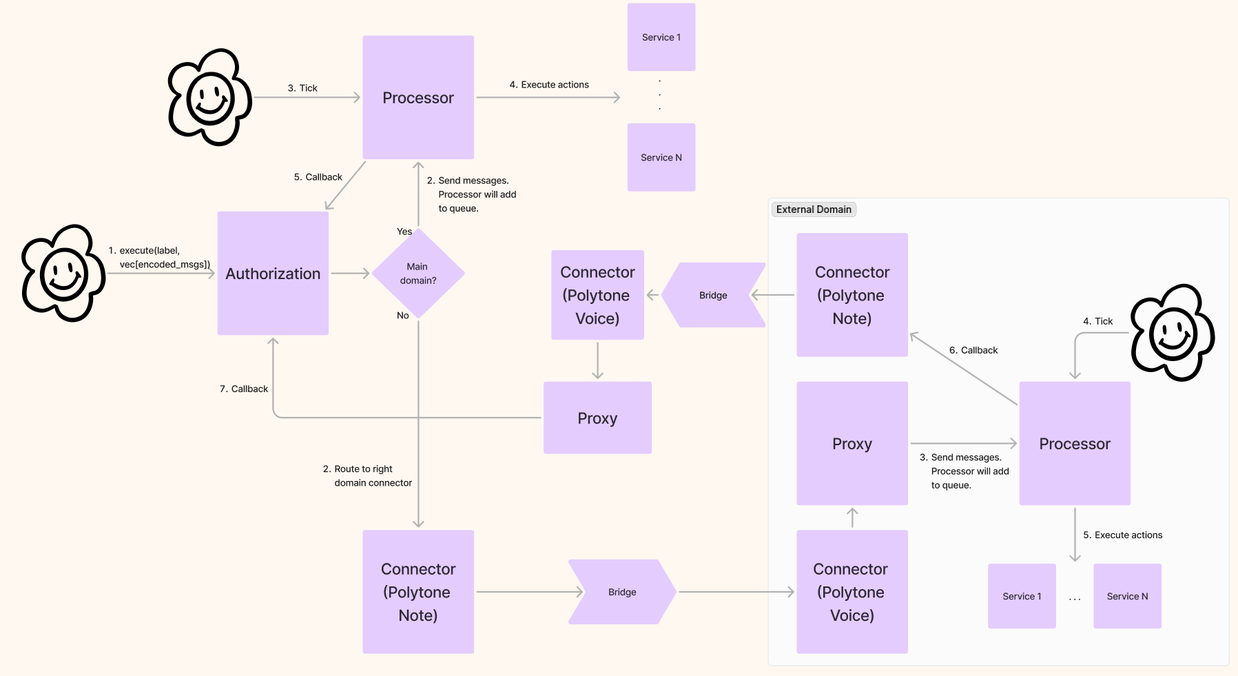
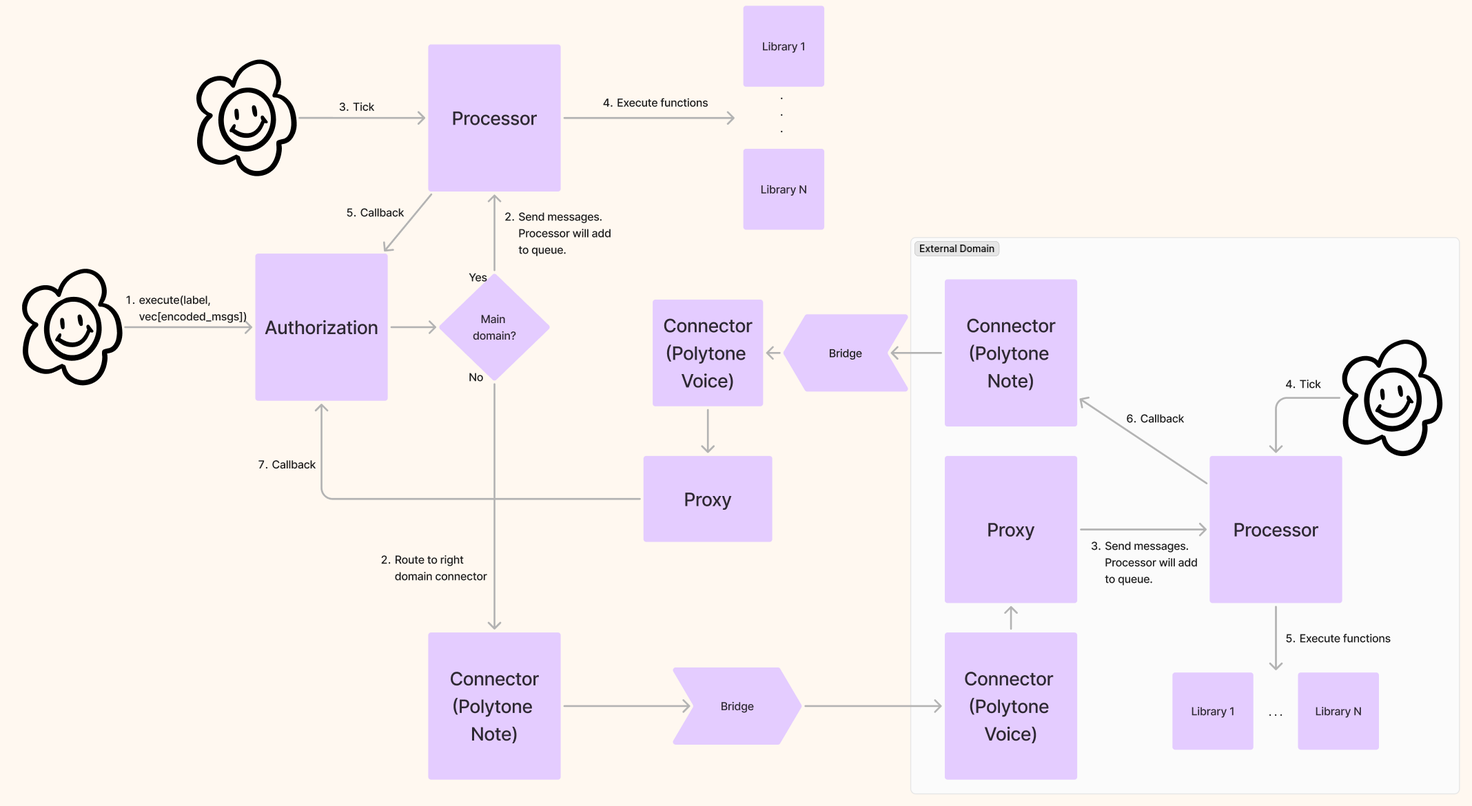
new docs

diff --git a/docs/src/authorizations_processors/authorization_owner_actions.md b/docs/src/authorizations_processors/authorization_owner_actions.md
@@ -1,28 +1,28 @@
-# Owner Actions
+# Owner Functions
 
-- `create_authorizations(vec[Authorization])`: provides an authorization list which is the core information of the authorization contract, it will include all the possible set of actions that can be executed. It will contain the following information:
+- `create_authorizations(vec[Authorization])`: provides an authorization list which is the core information of the authorization contract, it will include all the possible set of functions that can be executed. It will contain the following information:
 
   - Label: unique name of the authorization. This label will be used to identify the authorization and will be used as subdenom of the tokenfactory token in case it is permissioned. Due to tokenfactory module restrictions, the max length of this field is 44 characters.
     Example: If the label is `withdraw` and only address `neutron123` is allowed to execute this authorization, we will create the token `factory/<contract_addr>/withdraw` and mint one to that address. If `withdraw` was permissionless, there is no need for any token, so it's not created.
 
-  - Mode: can either be `Permissioned` or `Permissionless`. If `Permissionless` is chosen, any address can execute this action list. In case of `Permissioned`, we will also say what type of permissioned type we want (with `CallLimit` or without), a list of addresses will be provided for both cases. In case there is a `CallLimit` we will mint a certain amount of tokens for each address that is passed, in case there isn’t we will only mint one token and that token will be used all the time.
+  - Mode: can either be `Permissioned` or `Permissionless`. If `Permissionless` is chosen, any address can execute this function list. In case of `Permissioned`, we will also say what type of permissioned type we want (with `CallLimit` or without), a list of addresses will be provided for both cases. In case there is a `CallLimit` we will mint a certain amount of tokens for each address that is passed, in case there isn’t we will only mint one token and that token will be used all the time.
 
   - NotBefore: from what time the authorization can be executed. We can specify a block height or a timestamp.
 
   - Expiration: until when (what block or timestamp) this authorization is valid.
 
-  - MaxConcurrentExecutions (default 1): to avoid DDoS attacks and to clog the execution queues, we will allow certain authorizations to be present a maximum amount of times (default 1 unless overwritten) in the execution queue.
+  - MaxConcurrentExecutions (default 1): to avoid DDoS attacks and to clog the execution queues, we will allow certain authorizations subroutines to be present a maximum amount of times (default 1 unless overwritten) in the execution queue.
 
-  - ActionsConfig: set of actions in a specific order to be executed. This config can be of two types: `Atomic` or `NonAtomic`. For the `Atomic` config, we will provide an array of `Atomic` actions and an optional `RetryLogic` for the entire bundle. For the `NonAtomic` config we will provide simply an array of `NonAtomic` actions.
+  - Subroutine: set of functions in a specific order to be executed. Subroutines can be of two types: `Atomic` or `NonAtomic`. For the `Atomic` subroutines, we will provide an array of `Atomic` functions and an optional `RetryLogic` for the entire subroutine. For the `NonAtomic` subroutines we will just provide an array of `NonAtomic` functions.
 
-    - `AtomicAction`: each Atomic action has the following parameters:
+    - `AtomicFunction`: each Atomic function has the following parameters:
 
-      - Domain of execution (must be the same for all actions in v1).
+      - Domain of execution (must be the same for all functions in v1).
 
-      - MessageDetails: type (e.g. CosmWasmExecuteMsg) and message (name of the message in the ExecuteMsg json that can be executed with, if applied, three list of parameters: one for `MustBeIncluded`, one for `CannotBeIncluded` and one for `MustBeValue`. (This gives more control over the authorizations. Example: we want one authorization to provide the message with parameters (admin action for that service) but another authorization for the message without any Parameters (user action for that service).
+      - MessageDetails: type (e.g. CosmWasmExecuteMsg) and message (name of the message in the ExecuteMsg json that can be executed with, if applied, three list of parameters: one for `MustBeIncluded`, one for `CannotBeIncluded` and one for `MustBeValue`. (This gives more control over the authorizations. Example: we want one authorization to provide the message with parameters (admin function for that service) but another authorization for the message without any Parameters (user function for that service).
       - Contract address that will execute it.
 
-    - `NonAtomicAction`: each NonAtomic action has the following parameters:
+    - `NonAtomicFunction`: each NonAtomic function has the following parameters:
 
       - Domain of execution
 
@@ -32,9 +32,9 @@
 
       - RetryLogic (optional, self-explanatory).
 
-      - CallbackConfirmation (optional): This defines if a NonAtomicAction is completed after receiving a callback (Binary) from a specific address instead of when it executes correctly. This is used in case of the correct message execution not being enough to consider the message completed, so it will define what callback we should receive from a specific address to flag that message as completed. For this, the processor will append an `execution_id` to the message which will be also passed in the callback by the service to identify what action this callback is for.
+      - CallbackConfirmation (optional): This defines if a `NonAtomicFunction` is completed after receiving a callback (Binary) from a specific address instead of after a correct execution. This is used in case of the correct message execution not being enough to consider the message completed, so it will define what callback we should receive from a specific address to flag that message as completed. For this, the processor will append an `execution_id` to the message which will be also passed in the callback by the service to identify what function this callback is for.
 
-  - Priority (default Med): priority of a set of actions can be set to High. If this is the case, they will go into a preferential execution queue. Messages in the `High` priority queue will be taken over messages in the `Med` priority queue.
+  - Priority (default Med): priority of a set of functions can be set to High. If this is the case, they will go into a preferential execution queue. Messages in the `High` priority queue will be taken over messages in the `Med` priority queue.
     All authorizations will have an initial state of `Enabled` .
 
   Here is an example of an Authorization table after its creation:
@@ -49,7 +49,7 @@
 
 - `enable_authorization(label)`: puts an Authorization to state `Enabled` so that they can be run again.
 
-- `mint_authorization(label, vec[(addresses, Optional: amounts)])`: if the authorization is `Permissioned` with `CallLimit : true`, this action will mint the corresponding token amounts of that authorization to the addresses provided. If `CallLimit: false` it will mint 1 token to the new addresses provided.
+- `mint_authorization(label, vec[(addresses, Optional: amounts)])`: if the authorization is `Permissioned` with `CallLimit: true`, this function will mint the corresponding token amounts of that authorization to the addresses provided. If `CallLimit: false` it will mint 1 token to the new addresses provided.
 
 - `pause_processor(domain)`: pause the processor of the domain.
 

diff --git a/docs/src/authorizations_processors/processor.md b/docs/src/authorizations_processors/processor.md
@@ -1,10 +1,10 @@
 # Processor
 
-The `Processor` will be a contract on each domain of our workflow. It handles the execution queues which contain `Message`. The `Processor` can be `ticked` permissionlessly, which will execute the next `Message Batch` in the queue if this one is executable or rotate it to the back of the queue if it isn't executable yet. The processor will also handle the `Retry` logic for each batch (if the batch is atomic) or action (if the batch is non atomic). After a `Message Batch` has been executed successfully or it reached the maximum amount of retries, it will be removed from the execution queue and the `Processor` will send a callback with the execution information to the `Authorization` contract.
+The `Processor` will be a contract on each domain of our workflow. It handles the execution queues which contain `Message Batches`. The `Processor` can be `ticked` permissionlessly, which will execute the next `Message Batch` in the queue if this one is executable or rotate it to the back of the queue if it isn't executable yet. The processor will also handle the `Retry` logic for each batch (if the batch is atomic) or function (if the batch is non atomic). After a `Message Batch` has been executed successfully or it reached the maximum amount of retries, it will be removed from the execution queue and the `Processor` will send a callback with the execution information to the `Authorization` contract.
 
 The processors will be instantiated in advanced with the correct address that can send messages to it according to the _InstantiationFlow_ described in the [Assumptions](assumptions.md) section.
 
-The `Authorization` contract will be the only address allowed to add list of actions to the execution queues. It will also be allowed to Pause/Resume the `Processor` or to arbitrarily remove actions from the queues or add certain messages at a specific position.
+The `Authorization` contract will be the only address allowed to add list of functions to the execution queues. It will also be allowed to Pause/Resume the `Processor` or to arbitrarily remove functions from the queues or add certain messages at a specific position.
 
 There will be two execution queues: one `High` and one `Med`. This will allow giving different priorities to `Message`.
 
@@ -13,12 +13,12 @@ There will be two execution queues: one `High` and one `Med`. This will allow gi
 When a processor is `Ticked` we will take the first `MessageBatch` from the queue (`High` if there are batches there or `Med` if there aren’t).
 After taking them, we will execute them in different ways depending if the batch is `Atomic` or `NonAtomic`.
 
-- For `Atomic` batches the `Processor` will execute them by sending them to itself and trying to execute them in a Fire and Forget manner. If this execution fails, we will check the `RetryLogic` of the batch to decide if they are to be re-queued or not (if not, we will send a callback with `Rejected` status to the authorization contract).
+- For `Atomic` batches the `Processor` will execute them by sending them to itself and trying to execute them in a `Fire and Forget` manner. If this execution fails, we will check the `RetryLogic` of the batch to decide if they are to be re-queued or not (if not, we will send a callback with `Rejected` status to the authorization contract).
   If they succeeded we will send a callback with `Executed` status to the Authorization contract.
-- For `NonAtomic` batches we will execute the actions one by one and applying the RetryLogic individually to each action if they fail. `NonAtomic` actions might also be confirmed via `CallbackConfirmations` in which case we will keep them in a separate Map until we receive that specific callback.
-  Each time an action is confirmed, we will re-queue the batch and keep track of what action we have to execute next.
-  If at some point an action uses up all its retries, we will send a callback to the Authorization contract with a `PartiallyExecuted(num_of_actions_executed)` status. If all of them succeed it will be `Executed` and if none of them were it will be `Rejected`.
-  For `NonAtomic` batches, we need to tick the processor each time the batch is at the top of the queue to continue, so we will need at least as many ticks as number of actions we have in the batch, and each action has to wait for its turn.
+- For `NonAtomic` batches we will execute the functions one by one and applying the RetryLogic individually to each function if they fail. `NonAtomic` functions might also be confirmed via `CallbackConfirmations` in which case we will keep them in a separate Map until we receive that specific callback.
+  Each time an function is confirmed, we will re-queue the batch and keep track of what function we have to execute next.
+  If at some point an function uses up all its retries, we will send a callback to the Authorization contract with a `PartiallyExecuted(num_of_functions_executed)` status. If all of them succeed it will be `Executed` and if none of them were it will be `Rejected`.
+  For `NonAtomic` batches, we need to tick the processor each time the batch is at the top of the queue to continue, so we will need at least as many ticks as number of functions we have in the batch, and each function has to wait for its turn.
 
 ### Storage
 
@@ -29,7 +29,7 @@ Each “item” stored in the queue is an object `MessageBatch` that looks like 
 pub struct MessageBatch {
     pub id: u64,
     pub msgs: Vec<ProcessorMessage>,
-    pub actions_config: ActionsConfig,
+    pub subroutine: Subroutine,
     pub priority: Priority,
     pub retry: Option<CurrentRetry>,
 }
@@ -37,6 +37,6 @@ pub struct MessageBatch {
 
 - id: represents the global id of the batch. The `Authorization` contract, to understand the callbacks that it will receive from each processor, identifies each batch with an id. This id is unique for the entire application.
 - msgs: the messages the processor needs to execute for this batch (e.g. a CosmWasm ExecuteMsg or MigrateMsg).
-- actions_config: This is the config that the authorization table defines for the execution of these messages. With this field we can know if the messages need to be executed atomically or not atomically, for example, and the retry logic for each batch/action depending on the config type.
+- subroutine: This is the config that the authorization table defines for the execution of these functions. With this field we can know if the functions need to be executed atomically or not atomically, for example, and the retry logic for each batch/function depending on the config type.
 - priority (for internal use): batches will be queued in different priority queues when they are received from the authorization contract. We also keep this priority here because they might need to be re-queued after a failed execution and we need to know where to re-queue them
 - retry (for internal use): we are keeping the current retry we are at (if the execution previously failed) to know when to abort if we exceed the max retry amounts.

diff --git a/docs/src/components/authorizations_and_execution.md b/docs/src/components/authorizations_and_execution.md
@@ -1,34 +1,34 @@
 # Authorizations and Execution
 
-Each Service exposes **`Actions`** to the Workflow. For example an IBC bridge service has the **`Transfer{..}`** action, which takes arguments including the amount and denom to transfer.
+Each Library exposes **`Functions`** to the Program. For example an IBC bridge library has the **`Transfer{..}`** function, which takes arguments including the amount and denom to transfer.
 
-Workflows allow you to configure bundles of actions across multiple services and multiple chains. An **`ActionBundle`** can be:
+Programs allow you to configure subroutines of functions across multiple libraries and multiple chains. A **`Subroutine`** can be:
 
-- **Sequential**, i.e., execute action one, if it succeeds execute action two, and if that succeeds do action three, and so on.
-- or **Atomic**, i.e., execution action one, action two, and action three, and if any of them fail then revert all steps. Atomic actions must be limited to one execution domain.
+- **Sequential**, i.e., execute function one, if it succeeds execute function two, and if that succeeds do function three, and so on.
+- or **Atomic**, i.e., execution function one, function two, and function three, and if any of them fail then revert all steps. Atomic functions must be limited to one execution domain.
 
-You have the ability to specify fine-grained controls over who initiates execution of an **`ActionBundle`** using the **`Authorizations`** module. For example, you can configure it so that:
+You have the ability to specify fine-grained controls over who initiates execution of a **`Subroutine`** using the **`Authorizations`** module. For example, you can configure it so that:
 
-- Anyone can initiate execution of an **`ActionBundle`**
-- Only permissioned actors can initiate execution of an **`ActionBundle`**
-- Execution can only be initiated after a starting date
+- Anyone can initiate execution of a **`Subroutine`**
+- Only permissioned actors can initiate execution of a **`Subroutine`**
+- Execution can only be initiated after a starting timestamp/block height
+- Execution can only be initiated up to a certain timestamp/block height
 - Authorizations are tokenized. Which means they can be transferred by the holder or used in more sophisticated DeFi
 - Authorizations can expire
 - Authorizations can be enabled/disabled
 - Authorizations can tightly constrain parameters. For example, you want to authorize to execute a token transfer message but you want to limit them so they can only supply the amount argument and not the denom or receiver in the transfer message
 
-**Authorizations Module:** The Authorization module is the entry point for users. The user sends a set of messages to the Authorizations module and the label (id) of the authorization he wants to execute. The Authorizations contracts then verifies that the sender is authorized, that the messages are valid, constructs a _MessageBatch_ and passes the batch to the Processor for execution. The authority to execute any _ActionBundle_ is tokenized so that these tokens can be transferred on chain.
+**Authorizations Contract:** The Authorization contract is the entry point for users. The user sends a set of messages to the Authorizations contract and the label (id) of the authorization he wants to execute. The Authorizations contract then verifies that the sender is authorized, that the messages are valid, constructs a _MessageBatch_ based on the subroutine and passes this batch to the Processor for execution. The authority to execute any _Subroutine_ is tokenized so that these tokens can be transferred on-chain.
 
-**Processor:** The processor receives a _MessageBatch_ and executes the contained _Messages_ in sequence. It does this by maintaining execution queues, where the queue items are _ActionBundles._ The processor exposes a `Tick` message that allows anyone to trigger the processor, whereby the first item of the queue is executed or moved to the back of the queue if it's not executable yet (e.g. retry period has not passed).
+**Processor:** The processor receives a _MessageBatch_ and executes the contained _Messages_ in sequence. It does this by maintaining execution queues, where the queue items are _Subroutines._ The processor exposes a `Tick` message that allows anyone to trigger the processor, whereby the first item of the queue is executed or moved to the back of the queue if it's not executable yet (e.g. retry period has not passed).
 
-**ActionBundle:** An ActionBundle is a vector of _Actions._ An Action is a message that can be executed on a _Service_. An _ActionBundle_ can contain _Actions_ across multiple _Services_ within the same _Domain_. When a user sends messages to the Authorization contract, they will be checked against the _ActionBundle_ and it will construct a _MessageBatch_ to forward to the corresponding Processor.
+**Subroutine:** A Subroutine is a vector of _Functions._ A _Function_ is a message that can be executed on a _Library_. A _Subroutine_ can contain _Functions_ across multiple _Libraries_ within the same _Domain_. When a user sends messages to the Authorization contract, they will be checked against the _Subroutine_ and it will construct a _MessageBatch_ to forward to the corresponding Processor.
 
 ```mermaid
 graph LR;
-	User --> |ActionBundle| Auth(Authorizations)
+	User --> |Subroutine| Auth(Authorizations)
 	Auth --> |Message Batch| P(Processor)
-	P --> |Action 1| S1[Service 1]
-	P --> |Action 2| S2[Service 2]
-	P --> |Action N| S3[Service N]
+	P --> |Function 1| S1[Library 1]
+	P --> |Function 2| S2[Library 2]
+	P --> |Function N| S3[Library N]
 ```
-

diff --git a/docs/src/authorizations_processors/callbacks.md b/docs/src/authorizations_processors/callbacks.md
@@ -2,11 +2,11 @@
 
 There are different types of callbacks in our application. Each of them have a specific function and are used in different parts of the application.
 
-## Action Callbacks
+## Function Callbacks
 
-For the execution of `NonAtomic` batches, each action in the batch can optionally be confirmed with a callback from a specific address. When the processor reaches an action that requires a callback, it will inject the execution_id of the batch into the message that is going to executed on the service, which means that the service needs to be ready to receive that execution_id and know what what the expected callback is and from where it has to come from to confirm that action, otherwise that action will stay unconfirmed and the batch will not move to the next action. The callback will be sent to the processor with the execution_id so that the processor can know what action is being confirmed. The processor will then validate that the correct callback was received from the correct address.
+For the execution of `NonAtomic` batches, each function in the batch can optionally be confirmed with a callback from a specific address. When the processor reaches a function that requires a callback, it will inject the execution_id of the batch into the message that is going to executed on the library, which means that the library needs to be ready to receive that execution_id and know what what the expected callback is and from where it has to come from to confirm that function, otherwise that function will stay unconfirmed and the batch will not move to the next function. The callback will be sent to the processor with the execution_id so that the processor can know what function is being confirmed. The processor will then validate that the correct callback was received from the correct address.
 
-If the processor receives the expected callback from the correct address, the batch will move to the next action. If it receives a different callback than expected from that address, the execution of that action will be considered failed and it will be retried (if applicable). In any case, a callback must be received to determine if the action was successful or not.
+If the processor receives the expected callback from the correct address, the batch will move to the next function. If it receives a different callback than expected from that address, the execution of that function will be considered failed and it will be retried (if applicable). In any case, a callback must be received to determine if the function was successful or not.
 
 ## Processor Callbacks
 
@@ -40,8 +40,8 @@ pub enum ExecutionResult {
     Success,
     // Execution was rejected, and the reason
     Rejected(String),
-    // Partially executed, for non-atomic action batches
-    // Indicates how many actions were executed and the reason the next action was not executed
+    // Partially executed, for non-atomic function batches
+    // Indicates how many functions were executed and the reason the next function was not executed
     PartiallyExecuted(usize, String),
     // Removed by Owner - happens when, from the authorization contract, a remove item from queue is sent
     RemovedByOwner,

diff --git a/docs/src/background.md b/docs/src/background.md
@@ -1,14 +1,14 @@
-> 🚧 This in-progress document contains information about the design of a cross-chain automation system that powers the Valence workflows. Lending applications can be implemented as specific "workflow".
+> 🚧 This in-progress document contains information about the design of a cross-chain automation system that powers the Valence programs. Lending applications can be implemented as specific "program".
 
 # Background
 
-Workflows are a framework to help you develop trust-minimized applications which require sequential execution across many chains. They are easy to understand and quick to deploy. A Workflow can be set up with a configuration file and no code. Workflows are also extensible. If we don't support a DeFi integration out of the box, you can write one yourself in a matter of hours!
+Programs are a framework to help you develop trust-minimized applications which require sequential execution across many chains. They are easy to understand and quick to deploy. A Program can be set up with a configuration file and no code. Programs are also extensible. If we don't support a DeFi integration out of the box, you can write one yourself in a matter of hours!
 
 > 👉 **Example Use-case**:  
 > A DAO wants to bridge tokens to another chain and then deposit the tokens into a vault. After a certain date, it wants to allow a governance proposal to trigger unwinding of the position. While the position is active, It may also want to delegate the right to change vault parameters to a specific committee as long as the parameters are within a certain range.
 >
-> Without Workflows, the DAO would have two choices:  
+> Without Programs, the DAO would have two choices:  
 > **Choice 1:** Give the tokens to a multisig to execute actions on the DAO's behalf  
 > **Choice 2:** Write highly custom smart contracts across multiple chains that handle the token operations across multiple chains.
 >
-> Workflows offer a third choice: the DAO does not need to trust a multisig, nor does it need to spend resources writing complex cross-chain logic. Workflows allow the DAO to rapidly configure and deploy a solution that meets its needs.
+> Programs offer a third choice: the DAO does not need to trust a multisig, nor does it need to spend resources writing complex cross-chain logic. Programs allow the DAO to rapidly configure and deploy a solution that meets its needs.

diff --git a/docs/src/authorizations_processors/authorization_user_actions.md b/docs/src/authorizations_processors/authorization_user_actions.md
@@ -1,6 +1,6 @@
 # User Actions
 
-- `send_msgs(label, vec[ProcessorMessage])`: users can run an authorization with a specific label. If the authorization is `Permissioned`, the authorization contract will check if they are allowed to execute it by checking that the user has the token in its wallet if it's `Permissioned (without limit)` or that the user sent the token along with the messages if it's `Permissioned (with limit)`. Along with the authorization label, the user will provide the array of messages (encoded in base64 for example - `vec[Binary]`), together with the message type (e.g. `CosmwasmExecuteMsg`) and any other parameters for that specific ProcessorMessage (e.g. for a `CosmwasmMigrateMsg` we need to also pass a code_id). The contract will then check that the messages match the ones defined in the authorization (and in the correct order) and that all Parameters restrictions, if applied, are correct.
+- `send_msgs(label, vec[ProcessorMessage])`: users can run an authorization with a specific label. If the authorization is `Permissioned`, the authorization contract will check if they are allowed to execute it by checking that the user has the token in its wallet if it's `Permissioned (without limit)` or that the user sent the token along with the messages if it's `Permissioned (with limit)`. Along with the authorization label, the user will provide an array of encoded messages, together with the message type (e.g. `CosmwasmExecuteMsg`) and any other parameters for that specific ProcessorMessage (e.g. for a `CosmwasmMigrateMsg` we need to also pass a code_id). The contract will then check that the messages match the ones defined in the authorization (and in the correct order) and that all Parameters restrictions, if applied, are correct.
 
   If all checks are correct, the contract will route the messages to the correct `Processor` with an `execution_id` for the processor to callback with. This `execution_id` is unique for the entire application.
   If the execution of all the actions are confirmed via a callback, we will burn the token and if they fail, we will send the token back.

diff --git a/docs/src/authorizations_processors/authorization.md b/docs/src/authorizations_processors/authorization.md
@@ -1,5 +1,5 @@
 # Authorization
 
-The authorization contract will be a single contract deployed on the main domain and that will define the authorizations of the top-level application, which can include services in different domains (chains). For each domain there will be one Processor (with its corresponding execution queues). The `Authorization` contract will connect to all of the `Processors` using a connector (e.g. Polytone, Hyperlane…) and will route the `batches` to be executed to the right domain. At the same time, for each external domain, we will have a proxy contract in the main domain which will receive the callbacks sent from the processor on the external domain with the `ExecutionResult` of the `batch`.
+The authorization contract will be a single contract deployed on the main domain and that will define the authorizations of the top-level application, which can include libraries in different domains (chains). For each domain there will be one Processor (with its corresponding execution queues). The `Authorization` contract will connect to all of the `Processors` using a connector (e.g. Polytone, Hyperlane…) and will route the `Message Batches` to be executed to the right domain. At the same time, for each external domain, we will have a proxy contract in the main domain which will receive the callbacks sent from the processor on the external domain with the `ExecutionResult` of the `Message Batch`.
 
 The contract will be instantiated once at the very beginning and will be used during the entire top-level application lifetime. Users will never interact with the individual Smart Contracts of each workflow, but with the Authorization contract directly.

diff --git a/docs/src/components/accounts_and_libraries.md b/docs/src/components/accounts_and_libraries.md
@@ -1,0 +1,23 @@
+# Accounts and Libraries
+
+- **Valence Account:** An escrow contract that can hold balances for various supported token-types (e.g., in Cosmos `ics-20` or `cw-20`) . Accounts register valence libraries that can perform token operations on the account.
+
+- **Valence Libraries:** Valence libraries are registered with Valence accounts. Accounts are either registered as input accounts or output accounts. Libraries perform token operations on the input accounts, such as splitting, routing, or providing liquidity on a DEX, and depending on the business logic in the Library, they route the resulting tokens to the output accounts. Libraries expose _Functions_ that can be performed on them.
+
+**Example**
+
+In the following example, Library 1 is registered such that Account 1 is an input account and Account 2 is an output account. It can send a message to Account 1 which executes the message:
+
+```mermaid
+graph LR;
+	A1((Account 1)) --> |Tokens| A2((Account 2))
+	S1[Library 1] --> |Message| A1
+```
+
+The following diagram represents the same relationships more intuitively, but is less technically accurate. Here, just as above, Library 1 is registered with Account 1. It takes the funds in Account 1 as an input, applies its logic, and sends the output funds to Account 2.
+
+```mermaid
+graph LR;
+	A1((Account 1)) --> |Pull Tokens| S1[Library 1]
+	S1 --> |Send Tokens| A2((Account 2))
+```

diff --git a/docs/src/components/programs.md b/docs/src/components/programs.md
@@ -1,0 +1,11 @@
+# Programs
+
+- **Valence Program:** A program is an instance of the Valence Protocol. It is a particular arrangement and configuration of _ValenceAccounts_ and _Function_ across multiple _domains_. Programs are also associated with a set of _Subroutines_ that can be executed on the _Program_. For example, a POL lending relationship between two parties may be set up as a program.
+
+- **Domain:** Environments where _ValenceAccounts_ or _Libraries_ can be instantiated. Domains are defined by three properties:
+  1. Chain _(e.g., Neutron, Osmosis, Ethereum mainnet)_
+  2. Execution environment _(e.g., CosmWasm, EVM, SVM)_
+  3. Bridge from main domain _(e.g., Polytone over IBC, Hyperlane)_
+- **Main Domain:** Every program has a main domain where the _Authorizations_ module is instantiated.
+
+- **Program Manager:** Off-chain service that manages the configuration, instantiation, and update management for programs.

diff --git a/docs/src/authorizations_processors/overview.md b/docs/src/authorizations_processors/overview.md
@@ -1,6 +1,6 @@
 # Authorizations & Processors
 
-- To have a general purpose set of smart contracts that will provide the users (anyone if the authorization is permissionless or authorization token owners if it’s permissioned) with a single point of entry to interact with the Valence workflow, which can have services and accounts deployed on multiple chains.
+- To have a general purpose set of smart contracts that will provide the users (anyone if the authorization is permissionless or authorization token owners if it’s permissioned) with a single point of entry to interact with the Valence program, which can have libraries and accounts deployed on multiple chains.
 
 - To have all the user authorizations for multiple domains in a single place, making it very easy to control the application.
 

diff --git a/docs/src/SUMMARY.md b/docs/src/SUMMARY.md
@@ -2,9 +2,9 @@
 
 - [Background](./background.md)
 - [Component Overview](./components/overview.md)
-  - [Accounts and Services](./components/accounts_and_services.md)
+  - [Accounts and Libraries](./components/accounts_and_libraries.md)
   - [Authorizations and Execution](./components/authorizations_and_execution.md)
-  - [Workflows](./components/workflows.md)
+  - [Programs](./components/programs.md)
 - [Authorizations & Processors](./authorizations_processors/overview.md)
   - [Assumptions](./authorizations_processors/assumptions.md)
   - [Processor Contract](./authorizations_processors/processor.md)

diff --git a/docs/src/examples.md b/docs/src/examples.md
@@ -1,3 +1,17 @@
 # Examples
 
-Here we will 
+Here are some examples of Valence Programs that you can use to get started.
+
+## Token Swap Program
+
+```mermaid
+graph LR
+	InA((Party A Deposit))
+	InB((Party B Deposit))
+	OutA((Party A Withdraw))
+	OutB((Party B Withdraw))
+	SSA[Splitter A]
+	SSB[Splitter B]
+	InA --> SSA --> OutB
+	InB --> SSB --> OutA
+```
